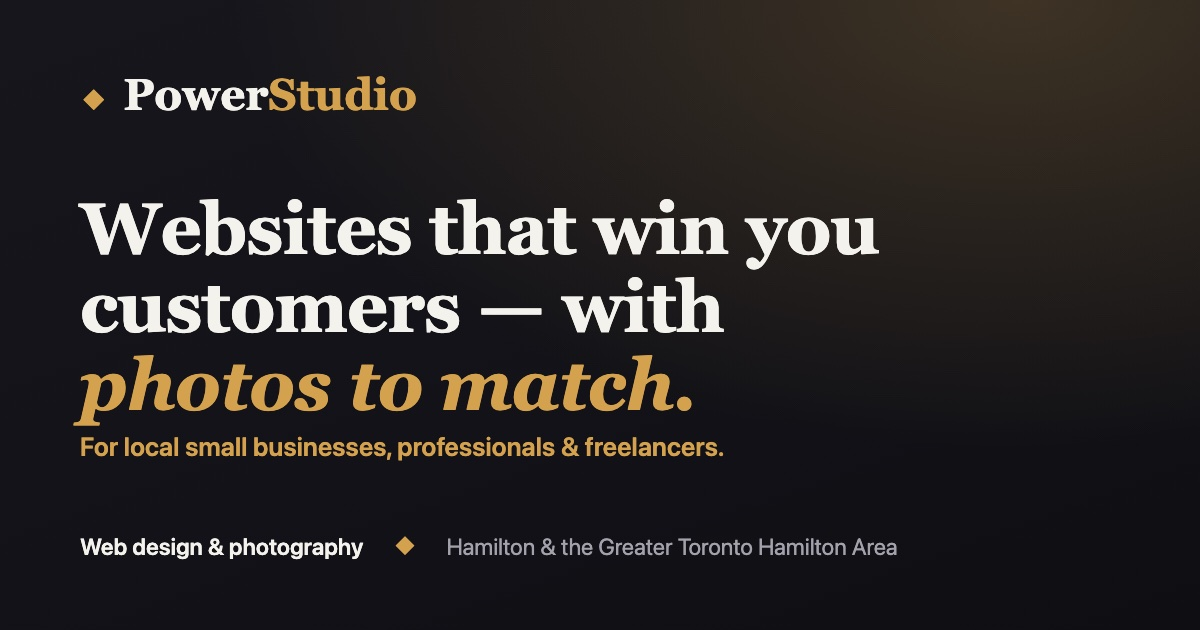
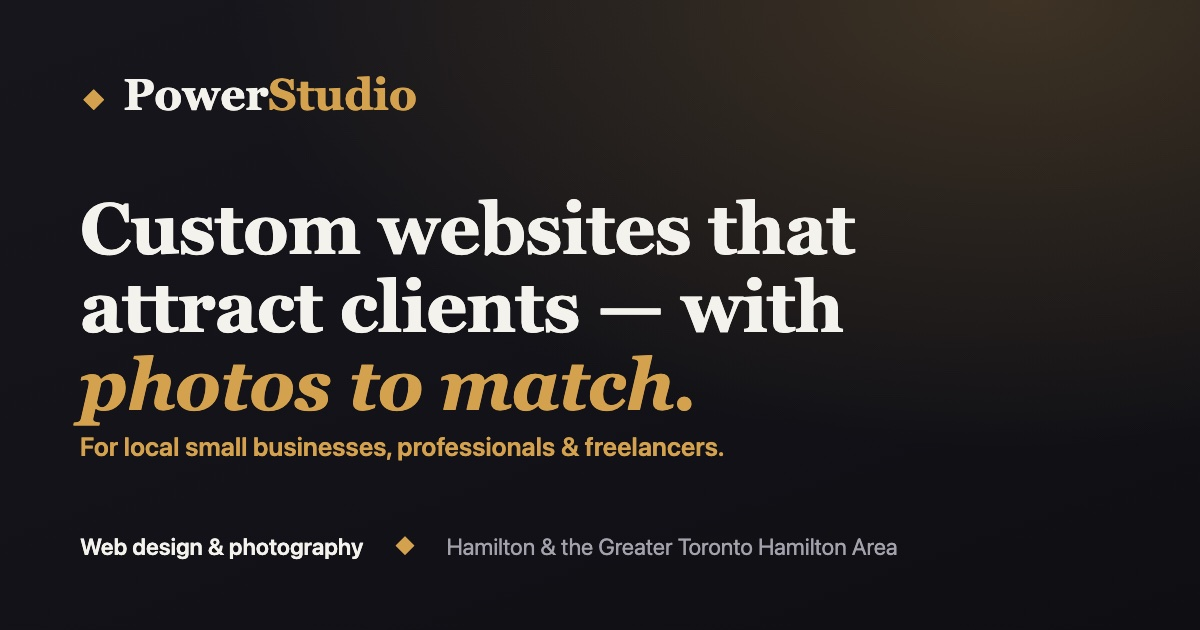
Sharpen positioning vs DIY builders + new headline
- New hero headline: 'Custom websites that attract clients'
- Add 'Why not just build it yourself?' comparison section (done-for-you,
  real person, you own it — no competitor-bashing)
- Reframe 'You own it' as no platform lock-in / no forever fees
- Make About more personal: one-person local studio, not a help desk
- Re-render social share card to match new headline

Changed region(s): [[0.0617, 0.3016, 0.74, 0.5429]]

diff --git a/index.html b/index.html
@@ -50,7 +50,7 @@
     <section class="hero">
         <div class="wrap hero-inner">
             <p class="eyebrow">Web design &amp; photography · Hamilton &amp; the Greater Toronto Area</p>
-            <h1>Websites that win you customers — with photos to match.</h1>
+            <h1>Custom websites that attract clients — with photos to match.</h1>
             <p class="tagline-line">For local small businesses, professionals, and freelancers.</p>
             <p class="lede">I build fast, modern websites for local businesses <em>and</em> shoot the professional photography to fill them. One studio, start to finish — no agency price tag.</p>
             <div class="hero-actions">
@@ -70,7 +70,7 @@
         <div class="wrap strip-inner">
             <div class="strip-item"><b>Web + Photo</b><small>I design the site and shoot the photos — most freelancers only do one.</small></div>
             <div class="strip-item"><b>Fixed pricing</b><small>Clear package prices up front. No surprise invoices.</small></div>
-            <div class="strip-item"><b>You own it</b><small>Your site, your domain, your photos — yours to keep.</small></div>
+            <div class="strip-item"><b>You own it</b><small>Your site, domain, and photos are yours to keep — no platform lock-in, no forever fees.</small></div>
             <div class="strip-item"><b>Ongoing care</b><small>Optional monthly plans so your site stays fresh and fast.</small></div>
         </div>
     </section>
@@ -86,8 +86,42 @@
         </div>
     </section>
 
+    <!-- ===== Why not DIY? comparison ===== -->
+    <section id="why" class="section section-alt">
+        <div class="wrap">
+            <div class="section-head">
+                <h2>Why not just build it yourself?</h2>
+                <p>Website builders look cheap — until you add up your nights, weekends, and the monthly fees. Here’s the honest difference.</p>
+            </div>
+            <div class="compare-grid">
+                <div class="compare-card compare-diy">
+                    <h3>Going it alone with a site builder</h3>
+                    <ul>
+                        <li>You build and maintain it — on top of actually running your business</li>
+                        <li>Generic templates everyone recognises, padded out with stock photos</li>
+                        <li>Help is a chatbot or an overseas call centre</li>
+                        <li>Locked into the platform — monthly fees forever, and your site can’t leave</li>
+                        <li>SEO, speed, and updates are all on you</li>
+                    </ul>
+                </div>
+                <div class="compare-card compare-you">
+                    <span class="compare-tag">With Power Studio</span>
+                    <h3>A real local person builds it for you</h3>
+                    <ul>
+                        <li>I build it <b>for</b> you — done properly, so you can get back to work</li>
+                        <li>Custom design plus real photography of <b>your</b> business, not stock</li>
+                        <li>A Hamilton local you can call or text directly — no help desk</li>
+                        <li>You own everything — your code, domain, and photos. No lock-in</li>
+                        <li>Optional care plans keep it fast, secure, and fresh</li>
+                    </ul>
+                    <a class="btn btn-primary btn-block" href="#contact">Talk to a real person</a>
+                </div>
+            </div>
+        </div>
+    </section>
+
     <!-- ===== Pricing: website packages ===== -->
-    <section id="pricing" class="section section-alt">
+    <section id="pricing" class="section">
         <div class="wrap">
             <div class="section-head">
                 <h2>Website packages</h2>
@@ -104,7 +138,7 @@
     </section>
 
     <!-- ===== Care plans ===== -->
-    <section id="care" class="section">
+    <section id="care" class="section section-alt">
         <div class="wrap">
             <div class="section-head">
                 <h2>Monthly care plans</h2>
@@ -149,8 +183,8 @@
             <div class="about-copy">
                 <p class="eyebrow">Meet your studio</p>
                 <h2>Hi, I’m Joshua.</h2>
-                <p>I’m a Hamilton-based web developer and photographer. I started Power Studio to give local businesses something agencies overcharge for: a beautiful, fast website with real, professional photos — built by someone who actually answers the phone.</p>
-                <p>Because I do both the development and the photography, your site and your images are made to work together from day one. No outsourcing, no middlemen, no jargon — just work I’m proud to put my name on.</p>
+                <p>I’m a Hamilton-based web developer and photographer — a one-person studio, not a big company with a ticket queue. I started Power Studio to give local businesses something agencies overcharge for and website builders make you do yourself: a beautiful, fast website with real, professional photos, built <em>for</em> you by someone who actually answers the phone.</p>
+                <p>Because I handle both the development and the photography, your site and your images work together from day one. No outsourcing, no middlemen, no overseas help desk — just a local person you can call or text, and work I’m proud to put my name on.</p>
                 <div class="about-badges">
                     <span>Web development</span><span>Photography</span><span>Cybersecurity-aware builds</span><span>Local &amp; independent</span>
                 </div>

diff --git a/styles.css b/styles.css
@@ -166,6 +166,23 @@ em { color: var(--brand); font-style: italic; }
 .policy-card h3 { font-size: 1.18rem; margin: 0 0 .6rem; color: var(--brand); }
 .policy-card p { margin: 0; color: var(--muted); font-size: .92rem; line-height: 1.6; }
 
+/* ---------- Why-not-DIY comparison ---------- */
+.compare-grid { display: grid; grid-template-columns: 1fr 1fr; gap: 22px; align-items: start; max-width: 880px; margin: 0 auto; }
+.compare-card { border: 1px solid var(--line); border-radius: var(--radius); padding: 26px 24px; position: relative; }
+.compare-diy { background: var(--bg); }
+.section-alt .compare-diy { background: var(--surface-2); }
+.compare-you { background: var(--bg); border-color: var(--brand); box-shadow: 0 0 0 1px var(--brand) inset; }
+.section-alt .compare-you { background: var(--surface-2); }
+.compare-card h3 { font-size: 1.2rem; margin: 0 0 16px; }
+.compare-card ul { list-style: none; padding: 0; margin: 0; }
+.compare-card li { padding: 9px 0 9px 28px; position: relative; font-size: .93rem; border-top: 1px solid var(--line); color: var(--muted); }
+.compare-card li:first-of-type { border-top: none; }
+.compare-diy li::before { content: "✕"; position: absolute; left: 0; color: #8a8a93; font-weight: 700; }
+.compare-you li { color: var(--ink); }
+.compare-you li::before { content: "✓"; position: absolute; left: 0; color: var(--brand); font-weight: 800; }
+.compare-tag { position: absolute; top: -11px; left: 50%; transform: translateX(-50%); background: var(--brand); color: #14110a; font-size: .72rem; font-weight: 700; padding: 4px 12px; border-radius: 999px; text-transform: uppercase; letter-spacing: .05em; }
+.compare-you .btn { margin-top: 18px; }
+
 /* ---------- Process ---------- */
 .process-steps { list-style: none; padding: 0; margin: 0; display: grid; grid-template-columns: repeat(4, 1fr); gap: 24px; }
 .process-steps li { text-align: center; }
@@ -232,6 +249,7 @@ em { color: var(--brand); font-style: italic; }
     .strip-inner { grid-template-columns: 1fr 1fr; }
     .process-steps { grid-template-columns: 1fr 1fr; gap: 28px 18px; }
     .about-grid, .contact-grid { grid-template-columns: 1fr; gap: 28px; }
+    .compare-grid { grid-template-columns: 1fr; }
     .about-portrait { max-width: 320px; order: -1; }
     .footer-grid { grid-template-columns: 1fr 1fr; gap: 22px; }
 }